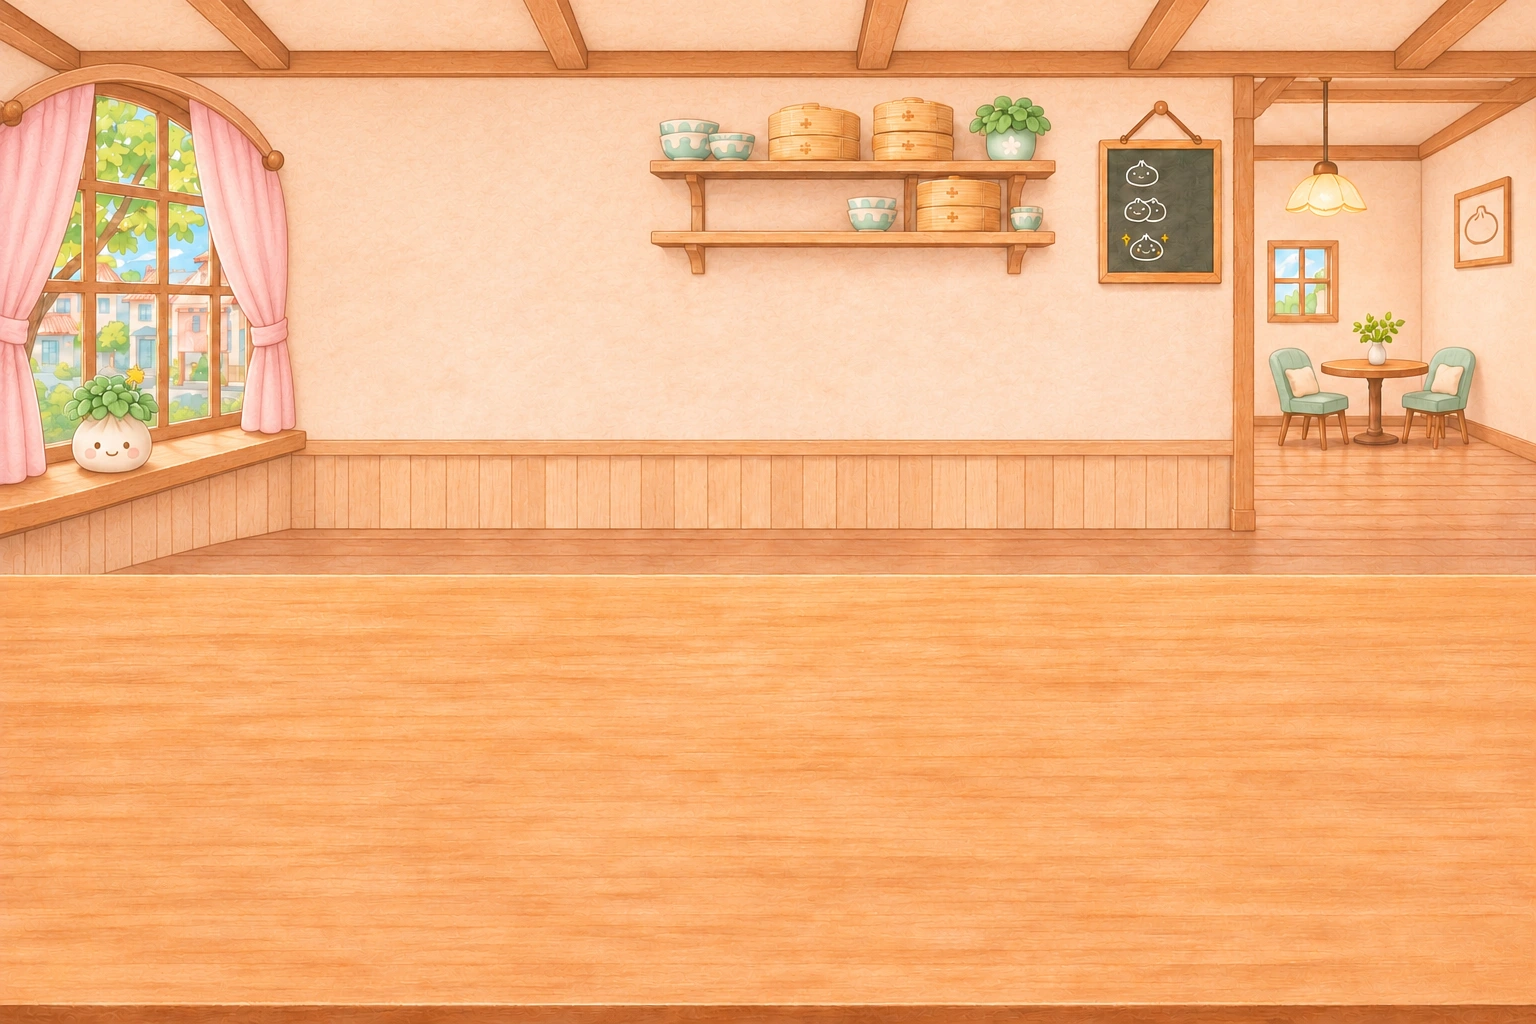
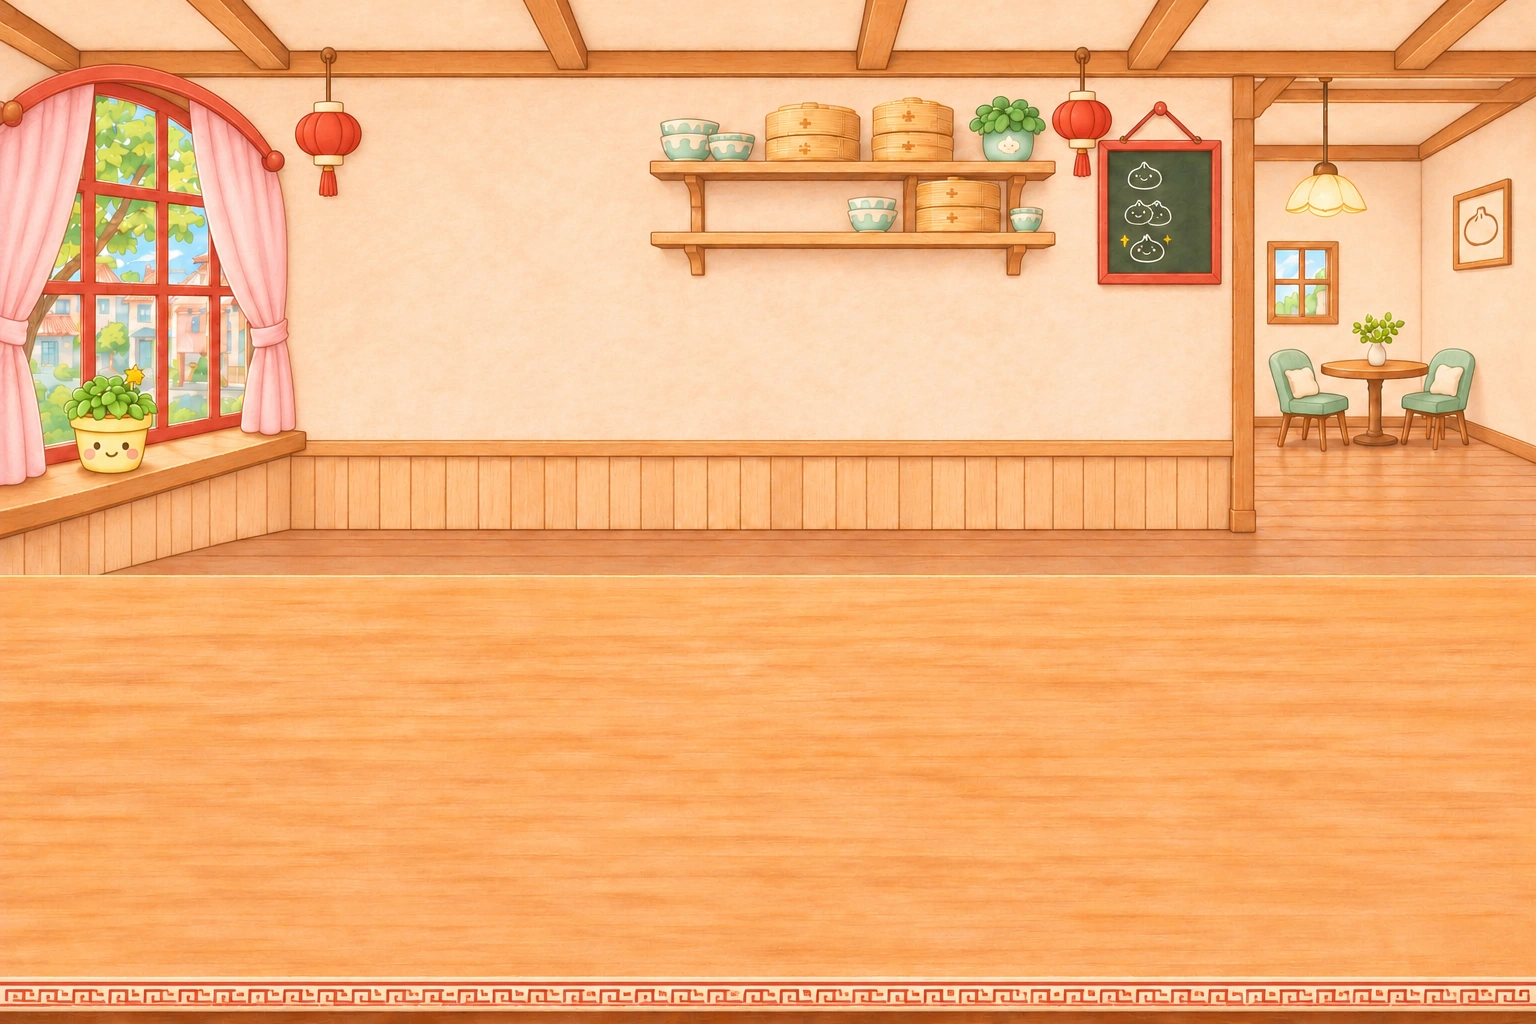
Add cute red bao restaurant accents and responsive packing and reward effects

diff --git a/bun-owner/owner.css b/bun-owner/owner.css
@@ -1,2 +1,4 @@
 @import url('../game.css?v=level-cards');
 :root{--ink:#65434e;--cream:#fff8eb;--pink:#f6a5ba;--line:#ecd8cc}*{box-sizing:border-box}[hidden]{display:none!important}body{margin:0;background:#fff5f7;color:var(--ink);font-family:var(--game-handwriting,'Trebuchet MS',sans-serif)}main{display:block!important;max-width:980px;width:100%;margin:auto;padding:18px 16px 30px}button{font:inherit;color:inherit;cursor:pointer}button:disabled{cursor:default}button:focus-visible,a:focus-visible{outline:3px solid #9677bb;outline-offset:3px}.back{font-size:14px;color:var(--ink)}.game-heading{margin:12px auto 8px}.intro{text-align:center;margin:8px 0 12px}.howto,.nickname-panel{max-width:740px;margin:8px auto}.howto{background:#fffaf2;border:1px solid var(--line);border-radius:16px;padding:10px 16px;font-size:14px}.howto p{line-height:1.7}.modes{display:flex;justify-content:center;gap:8px;margin:16px 0 4px}.modes button{border:2px solid #e6cdd6;border-radius:24px;background:#fffaf5;padding:9px 20px}.modes [aria-pressed=true]{background:#f8bed0;border-color:#c97c99}.shop-stats{display:flex;flex-wrap:wrap;justify-content:space-between;align-items:center;gap:8px;padding:12px 6px;font-size:14px}.shop-stats strong{font-size:22px;color:#a25173}#best{font-size:12px}.restaurant{position:relative;isolation:isolate;overflow:hidden;border:3px solid #e7be9c;border-radius:24px;background:#f7dfbd url('restaurant.webp') center/100% 100% no-repeat;box-shadow:0 7px 0 #e6c9c4;padding:70px 12px 12px;min-height:580px}.restaurant-sign{position:absolute;top:16px;left:50%;transform:translateX(-50%);border:2px solid #dfaf87;border-radius:12px;background:#fff7e8;padding:7px 20px;white-space:nowrap;font-size:17px;font-weight:bold;box-shadow:0 3px 0 #c9906740}.grown-sign .restaurant-sign{border-color:#bd718d;background:#fff0f5}.guest-lanes{display:grid;grid-template-columns:repeat(3,minmax(0,1fr));gap:12px;position:relative;z-index:1}.guest-card{min-width:0;display:flex;flex-direction:column;align-items:center;position:relative;padding:0 4px 8px;border-radius:20px}.guest-card.empty{visibility:hidden}.guest-order{height:70px;min-height:70px;width:100%;max-width:240px;border:2px solid #ead0b7;border-radius:18px;background:#fffcf3;display:flex;justify-content:center;align-items:center;padding:4px;box-shadow:0 3px 0 #b98b6725;position:relative}.guest-order:after{content:'';position:absolute;bottom:-9px;left:46%;border-width:8px 8px 0;border-style:solid;border-color:#ead0b7 transparent transparent}.order-icons{display:flex;justify-content:center;gap:3px;flex-wrap:wrap}.order-item{display:flex;align-items:center;gap:1px}.order-item img{width:45px;height:45px;object-fit:contain}.order-item strong{font-size:15px}.order-item.done{opacity:.5}.portrait-button{display:flex;justify-content:center;align-items:flex-end;height:172px;width:100%;border:0;background:none;padding:7px 0 0;position:relative;touch-action:manipulation}.guest-image{max-height:100%;max-width:95%;object-fit:contain;object-position:bottom;filter:drop-shadow(0 3px 2px #9e704233);pointer-events:none}.guest-image.sister{max-height:89%}.guest-image.friend{max-height:82%}.guest-image.baby{max-height:69%}.patience{height:9px;width:65%;max-width:150px;border:2px solid #fffbef;background:#e8d8c5;border-radius:20px;overflow:hidden;margin:3px 0 9px}.patience i{display:block;height:100%;background:#92c5ae;border-radius:20px}.worry .patience i{background:#e5a365}.guest-tray{width:100%;max-width:250px;min-height:83px;padding:12px 5px;display:flex;gap:2px;justify-content:center;align-items:center;background:repeating-linear-gradient(0deg,#e5b57c 0 4px,#efc996 4px 9px);border:5px solid #c78e57;border-radius:45%;box-shadow:0 5px 0 #aa734b;position:relative;touch-action:none;transition:box-shadow .15s,transform .15s}.selected .guest-tray{box-shadow:0 5px 0 #aa734b,0 0 0 4px #f8a7c3}.guest-tray.drop-ready{transform:scale(1.04);box-shadow:0 5px 0 #aa734b,0 0 0 5px #b8e1c9}.tray-cell{width:30%;aspect-ratio:1;border:1px dashed #bd8c6190;background:#fff2d440;border-radius:50%;padding:0;touch-action:none;display:flex;align-items:center;justify-content:center}.tray-cell img{width:115%;height:115%;max-width:none;object-fit:contain;pointer-events:none}.guest-deliver{margin-top:12px;padding:7px 15px;background:#ffe9c4;border:2px solid #cfa06c;border-radius:22px;box-shadow:0 3px 0 #cf9e74;min-height:40px;font-size:14px}.guest-deliver:disabled{opacity:.45}.restaurant-counter{position:relative;z-index:2;margin:18px -2px 0}.shelf{display:grid;grid-template-columns:repeat(4,minmax(0,1fr));gap:10px;background:#fff5e5d9;border:2px solid #d9ae7e;border-radius:22px;padding:8px}.menu-bun{border:0;background:transparent;border-radius:16px;display:flex;flex-direction:column;align-items:center;padding:3px;touch-action:none;min-width:0;transition:transform .12s}.menu-bun:active{transform:scale(.94)}.menu-bun img{width:100%;max-width:95px;height:76px;object-fit:contain;pointer-events:none}.menu-bun span{font-size:13px}.welcome,.day-result{position:absolute;z-index:5;left:50%;top:40%;transform:translate(-50%,-50%);width:min(86%,480px);border:3px solid #e8a8bc;border-radius:28px;background:#fffbf1f5;padding:26px 20px;text-align:center;box-shadow:0 8px 0 #d9ad8d55}.welcome strong,.day-result h2{font-size:25px}.welcome p{line-height:1.7}.welcome span{display:block;font-size:15px;color:#967186}.day-result strong{font-size:34px;color:#b57948}.day-result p{white-space:pre-line;line-height:1.8}.result-stars{color:#cfaa58;letter-spacing:15px}.reaction{font-size:15px;text-align:center}.is-served .guest-image{animation:happy .55s ease}.is-disappointed .guest-image{animation:disappointed 1.5s ease both}.disappointed-dots{position:absolute;right:12%;top:25%;font-size:30px;color:#8e7b8b}.mini-bag{position:absolute;inset:7px 30%;display:grid;place-items:center;border-radius:12px;background:#fff7e8;color:#d18ba3;box-shadow:0 3px 3px #b78c6e55;font-size:28px}.shop-extra{position:absolute;right:8%;top:12%;color:#e0b33c;font-size:28px;pointer-events:none}.message{text-align:center;min-height:28px;margin:15px 0 8px;font-size:15px}.actions{display:flex;justify-content:center;gap:10px;flex-wrap:wrap}.actions button{border:2px solid #d08ca6;border-radius:25px;padding:12px 24px;box-shadow:0 4px 0 #d08ca6}.primary{background:#f8bad0;font-size:19px}.secondary{background:#fff8e8;font-size:14px}.actions button:disabled{opacity:.5}.shop-growth,.records{margin:24px auto 12px;padding:16px;border:1px solid #ead6d3;border-radius:20px;background:#fffaf3;text-align:center}.shop-growth p,.reward-note{font-size:13px;color:#967684}.reward-note{text-align:center;line-height:1.8}#upgrades{display:flex;gap:8px;justify-content:center;margin-top:12px;flex-wrap:wrap}#upgrades span{padding:5px 12px;background:#efe7df;border-radius:20px;font-size:13px}#upgrades .earned{background:#dceee1}.records h2{font-size:18px}.records ol{max-width:460px;margin:14px auto;padding-left:30px}.records li{padding:5px 8px;text-align:left}.records li strong{float:right}.records p{font-size:12px}.related{display:flex;justify-content:center;gap:25px;margin:24px 0}.related a,.feedback a{color:var(--ink)}.feedback{display:flex;flex-wrap:wrap;gap:18px;justify-content:center;padding:20px;font-size:13px}.feedback small{width:100%;text-align:center}.drag-ghost{position:fixed;z-index:1000;width:85px;height:85px;object-fit:contain;transform:translate(-50%,-50%);pointer-events:none;filter:drop-shadow(0 7px 3px #a8784c55)}@keyframes happy{0%,100%{transform:translateY(0)}40%{transform:translateY(-15px) rotate(-3deg)}70%{transform:translateY(-6px) rotate(3deg)}}@keyframes disappointed{0%{opacity:1;transform:translateY(0)}70%,100%{opacity:.25;transform:translateY(12px)}}@media(max-width:600px){main{padding:12px 7px 24px}.restaurant{padding:65px 5px 10px;min-height:510px;border-radius:18px;background-size:auto 100%}.guest-lanes{gap:4px}.guest-card{padding:0 1px 5px}.guest-order{height:74px;min-height:74px;border-radius:13px}.order-item img{width:31px;height:34px}.order-item strong{font-size:12px}.order-icons{gap:1px}.portrait-button{height:148px}.guest-tray{min-height:64px;border-width:4px;padding:9px 2px}.guest-deliver{padding:6px 8px;font-size:12px;min-height:38px}.reaction{font-size:12px}.shelf{gap:2px;padding:6px 2px;border-radius:16px}.menu-bun img{height:63px}.menu-bun span{font-size:11px}.shop-stats{font-size:12px}.shop-stats strong{font-size:18px}.modes button{padding:9px 14px;font-size:14px}.restaurant-sign{font-size:15px}.welcome strong,.day-result h2{font-size:21px}.welcome p{font-size:14px}.actions button{padding:11px 17px}.message{font-size:13px}.patience{width:80%}}@media(prefers-reduced-motion:reduce){*,*:before,*:after{animation:none!important;transition:none!important}}
+/* Bao restaurant accents and lightweight action feedback. */
+:root{--ink:#70443d;--pink:#ec9b96}.restaurant{border-color:#c86d58}.restaurant-sign{background:#fff5da;border-color:#ce6a53;color:#a53f36;box-shadow:0 3px 0 #a84c3540}.grown-sign .restaurant-sign{border-color:#be4f45;background:#ffe5b9}.modes [aria-pressed=true]{background:#f6b4a6;border-color:#c36659}.selected .guest-tray{box-shadow:0 5px 0 #aa734b,0 0 0 4px #e98b7c}.guest-order{border-color:#dba58a}.guest-order:after{border-top-color:#dba58a}.guest-deliver{background:#f7c7a5;border-color:#c77558}.primary{background:#efaaa0}.actions button{border-color:#c96c5c;box-shadow:0 4px 0 #c96c5c}.shop-stats strong{color:#b84e42}.effects{position:absolute;inset:0;z-index:8;pointer-events:none;overflow:hidden}.reward-float{position:absolute;transform:translate(-50%,-30px);white-space:nowrap;background:#fff5c8;border:2px solid #dca75b;border-radius:22px;padding:7px 13px;color:#b25636;font-weight:bold;font-size:20px;box-shadow:0 3px 0 #b5784933;animation:reward-rise 1.3s ease-out both}.reward-float.combo{background:#fbe5aa;border-color:#d37b50;font-size:22px}.reward-spark{position:absolute;color:#d66f6a;font-size:22px}.reward-spark:nth-child(2n){color:#e0b545}#coins{display:inline-block}.menu-bun:hover:not(:disabled){background:#fff4d67a}@keyframes reward-rise{0%{opacity:0;transform:translate(-50%,0) scale(.7)}15%{opacity:1;transform:translate(-50%,-20px) scale(1.08)}35%{transform:translate(-50%,-30px) scale(1)}80%{opacity:1}100%{opacity:0;transform:translate(-50%,-70px)}}@media(prefers-reduced-motion:reduce){.reward-spark{display:none}.reward-float{animation:none;transform:translate(-50%,-30px)}}

diff --git a/bun-owner/index.html b/bun-owner/index.html
@@ -24,6 +24,7 @@
 <div class="shop-stats"><span>🪙 <strong id="coins">0</strong> <span data-ja="売上">coins</span></span><span>♡ <strong id="served">0</strong> <span data-ja="人におとどけ">served</span></span><strong id="clock">90</strong><span id="best"></span></div>
 <section class="shop restaurant" id="shop" aria-label="Bun restaurant" data-ja-label="肉まんレストラン">
   <div class="restaurant-sign" data-ja="ほかほか肉まん">FRESH &amp; FLUFFY</div>
+  <div id="effects" class="effects" aria-hidden="true"></div>
   <div class="guest-lanes" id="customers"></div>
   <div class="restaurant-counter"><div class="shelf" id="shelf" aria-label="Bun menu" data-ja-label="肉まんメニュー"></div></div>
   <div id="welcome" class="welcome"><strong data-ja="いらっしゃいませ！">Welcome!</strong><p data-ja="注文をえらんで、せいろに肉まんを入れよう。">Choose an order and pack its steamer.</p><span id="welcome-mode"></span></div>
